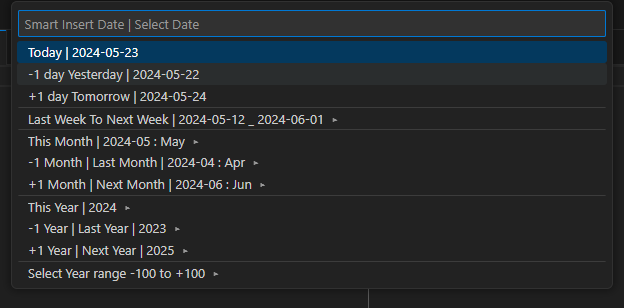
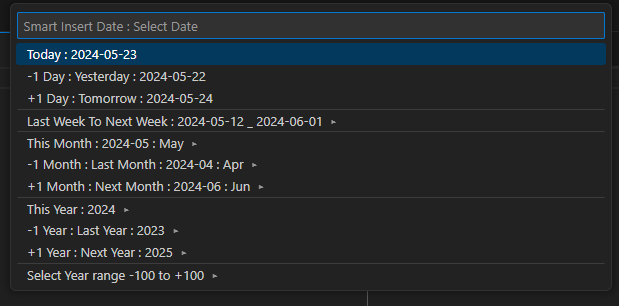
- update menu delimiter   - | -> :

diff --git a/src/extension.js b/src/extension.js
@@ -178,7 +178,7 @@ function activate(context) {
     () => {
       selectFormat(
         new Date(),
-        `Smart Insert Date | Select Format`,
+        `Smart Insert Date : Select Format`,
         [`Date`, `DateTime`, `Time`],
       );
     }
@@ -201,39 +201,39 @@ function activate(context) {
 
     commandQuickPick([
       {
-        label: `Today | `
+        label: `Today : `
         + `${dateToString(today, `YYYY-MM-DD`)}`
         ,
         func: () => {
           selectFormat(
             today,
-            `Smart Insert Date | Select Date | ` +
+            `Smart Insert Date : Select Date : ` +
             `${dateToString(today, `YYYY-MM-DD ddd`)}`,
             [`Date`],
           );
         }
       },
       {
-        label: `-1 Day | Yesterday | `
+        label: `-1 Day : Yesterday : `
         + `${dateToString(yesterday, `YYYY-MM-DD`)}`
         ,
         func: () => {
           selectFormat(
             yesterday,
-            `Smart Insert Date | Select Date | ` +
+            `Smart Insert Date : Select Date : ` +
             `${dateToString(yesterday, `YYYY-MM-DD ddd`)}`,
             [`Date`],
           );
         }
       },
       {
-        label: `+1 Day | Tomorrow | `
+        label: `+1 Day : Tomorrow : `
         + `${dateToString(tomorrow, `YYYY-MM-DD`)}`
         ,
         func: () => {
           selectFormat(
             tomorrow,
-            `Smart Insert Date | Select Date | ` +
+            `Smart Insert Date : Select Date : ` +
             `${dateToString(tomorrow, `YYYY-MM-DD ddd`)}`,
             [`Date`],
           );
@@ -241,7 +241,7 @@ function activate(context) {
       },
       {label: ``, kind: vscode.QuickPickItemKind.Separator},
       {
-        label: `Last Week To Next Week | `
+        label: `Last Week To Next Week : `
         + `${dateToString(dateLastWeekStart, `YYYY-MM-DD`)}`
         + ` _ ${dateToString(dateNextWeekEnd, `YYYY-MM-DD`)}`
         ,
@@ -250,36 +250,36 @@ function activate(context) {
       },
       {label: ``, kind: vscode.QuickPickItemKind.Separator},
       {
-        label: `This Month | `
+        label: `This Month : `
         + `${dateToString(dateThisMonth, `YYYY-MM : MMM`)}`,
         description: `▸`,
         func: () => { selectDateInMonth(dateThisMonth); }
       },
       {
-        label: `-1 Month | Last Month | `
+        label: `-1 Month : Last Month : `
         + `${dateToString(dateLastMonth, `YYYY-MM : MMM`)}`,
         description: `▸`,
         func: () => { selectDateInMonth(dateLastMonth); }
       },
       {
-        label: `+1 Month | Next Month | `
+        label: `+1 Month : Next Month : `
         + `${dateToString(dateNextMonth, `YYYY-MM : MMM`)}`,
         description: `▸`,
         func: () => { selectDateInMonth(dateNextMonth); }
       },
       {label: ``, kind: vscode.QuickPickItemKind.Separator},
       {
-        label: `This Year | ${dateThisYear.getFullYear()}`,
+        label: `This Year : ${dateThisYear.getFullYear()}`,
         description: `▸`,
         func: () => { selectMonth(dateThisYear); }
       },
       {
-        label: `-1 Year | Last Year | ${dateLastYear.getFullYear()}`,
+        label: `-1 Year : Last Year : ${dateLastYear.getFullYear()}`,
         description: `▸`,
         func: () => { selectMonth(dateLastYear); }
       },
       {
-        label: `+1 Year | Next Year | ${dateNextYear.getFullYear()}`,
+        label: `+1 Year : Next Year : ${dateNextYear.getFullYear()}`,
         description: `▸`,
         func: () => { selectMonth(dateNextYear); }
       },
@@ -289,7 +289,7 @@ function activate(context) {
         description: `▸`,
         func: () => { selectDateRange200Year(); }
       },
-    ], `Smart Insert Date | Select Date`);
+    ], `Smart Insert Date : Select Date`);
   }
 
   const selectDateRange200Year = () => {
@@ -335,7 +335,7 @@ function activate(context) {
         description: `▸`,
         func: () => { selectTenYear(_Year(11, dateThisYear)); }
       },
-    ], `Smart Insert Date | Select Date | Select Year range -100 to +100`);
+    ], `Smart Insert Date : Select Date : Select Year range -100 to +100`);
   }
 
   const selectTenYear = (dateYear) => {
@@ -349,7 +349,7 @@ function activate(context) {
       });
     }
     commandQuickPick(commands,
-      `Smart Insert Date | Select Date | ` +
+      `Smart Insert Date : Select Date : ` +
       `${dateToString(dateYear, `YYYY`)} - ${dateToString(_Year(89, dateYear), `YYYY`)}`);
   };
 
@@ -364,7 +364,7 @@ function activate(context) {
       });
     }
     commandQuickPick(commands,
-      `Smart Insert Date | Select Date | ` +
+      `Smart Insert Date : Select Date : ` +
       `${dateToString(dateYear, `YYYY`)} - ${dateToString(_Year(9, dateYear), `YYYY`)}`);
   };
 
@@ -383,7 +383,7 @@ function activate(context) {
       });
     }
     commandQuickPick(commands,
-      `Smart Insert Date | Select Date | ` +
+      `Smart Insert Date : Select Date : ` +
       `${dateYear.getFullYear()}`);
   };
 
@@ -406,7 +406,7 @@ function activate(context) {
         func: () => {
           selectFormat(
             targetDate,
-            `Smart Insert Date | Select Date | ` +
+            `Smart Insert Date : Select Date : ` +
             `${dateToString(targetDate, `YYYY-MM-DD ddd`)}`,
             [`Date`],
           );
@@ -414,7 +414,7 @@ function activate(context) {
       });
     }
     commandQuickPick(commands,
-      `Smart Insert Date | Select Date | ` +
+      `Smart Insert Date : Select Date : ` +
       `${dateToString(dateMonth, `YYYY-MM`)}`
     );
   };
@@ -438,7 +438,7 @@ function activate(context) {
         func: () => {
           selectFormat(
             targetDate,
-            `Smart Insert Date | Select Date | ` +
+            `Smart Insert Date : Select Date : ` +
             `${dateToString(targetDate, `YYYY-MM-DD ddd`)}`,
             [`Date`],
           );
@@ -447,7 +447,7 @@ function activate(context) {
     }
 
     commandQuickPick(commands,
-      `Smart Insert Date | Select Date | ` +
+      `Smart Insert Date : Select Date : ` +
       `${dateToString(dateStart, `YYYY-MM`)}`
     );
   };

diff --git a/CHANGELOG.md b/CHANGELOG.md
@@ -3,6 +3,8 @@
 ## [1.3.0] - 2024/05/23 Thu
 - update select date
   - today | yesterday | tomorrow
+- update menu delimiter
+  - | -> :
 
 ## [1.3.0] - 2024/04/03 Wed
 - update select date
